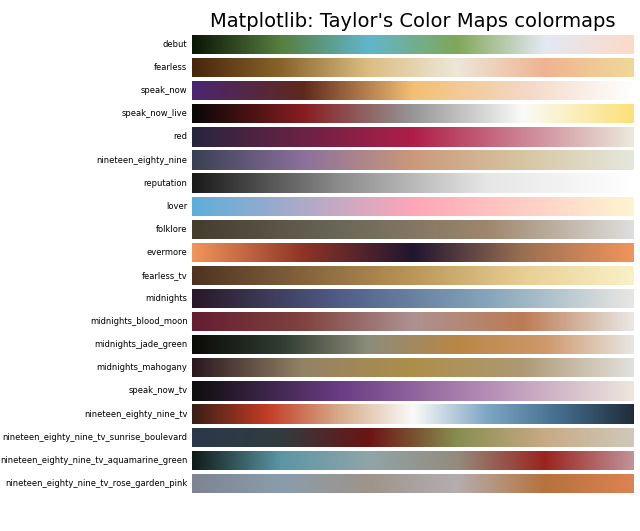
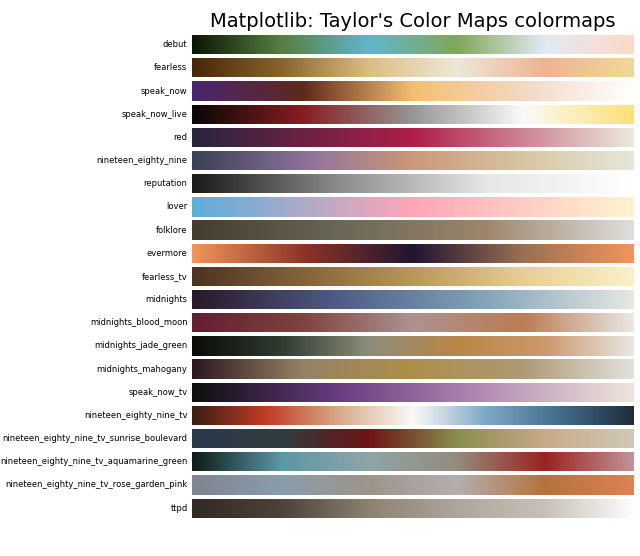
Added TTPD

diff --git a/swiftascmaps/__init__.py b/swiftascmaps/__init__.py
@@ -65,3 +65,5 @@ nineteen_eighty_nine_tv, nineteen_eighty_nine_tv_r = make_custom_cmap(
 nineteen_eighty_nine_tv_sunrise_boulevard, nineteen_eighty_nine_tv_sunrise_boulevard_r = make_custom_cmap("nineteen_eighty_nine_tv_sunrise_boulevard", colors.nineteen_eighty_nine_tv_sunrise_boulevard)
 nineteen_eighty_nine_tv_aquamarine_green, nineteen_eighty_nine_tv_aquamarine_green_r = make_custom_cmap("nineteen_eighty_nine_tv_aquamarine_green", colors.nineteen_eighty_nine_tv_aquamarine_green)
 nineteen_eighty_nine_tv_rose_garden_pink, nineteen_eighty_nine_tv_rose_garden_pink_r = make_custom_cmap("nineteen_eighty_nine_tv_rose_garden_pink", colors.nineteen_eighty_nine_tv_rose_garden_pink)
+
+ttpd, ttpd_r = make_custom_cmap("ttpd", colors.ttpd)

diff --git a/test_maps.py b/test_maps.py
@@ -55,7 +55,8 @@ plot_color_gradients("Matplotlib: Taylor's Color Maps",
     "swift.nineteen_eighty_nine_tv",
     "swift.nineteen_eighty_nine_tv_sunrise_boulevard",
     "swift.nineteen_eighty_nine_tv_aquamarine_green",
-    "swift.nineteen_eighty_nine_tv_rose_garden_pink"
+    "swift.nineteen_eighty_nine_tv_rose_garden_pink",
+    "swift.ttpd"
 ]
 )
 

diff --git a/swiftascmaps/colors.py b/swiftascmaps/colors.py
@@ -149,3 +149,4 @@ nineteen_eighty_nine_tv_rose_garden_pink = hex_to_rgb(sorted(
     ["#8A9DAC", "#9E948A","#DD8253", "#B4AEAF", "#B6723C", "#7F8491"]
 ))
 
+ttpd = hex_to_rgb(sorted(["#8D8171", "#C6C0B8", "#49433B", "#FDFDFD", "#322B25","#ADA69C"]))

diff --git a/README.md b/README.md
@@ -27,6 +27,7 @@ Includes color maps based on the following albums:
 + 1989: Taylor's Version - Sunrise Boulevard Variant (`nineteen_eighty_nine_tv_sunrise_boulevard`, `nineteen_eighty_nine_tv_sunrise_boulevard_r`) (copied from [taloRswift](https://github.com/asteves/tayloRswift))
 + 1989: Taylor's Version - Aquamarine Green Variant (`nineteen_eighty_nine_tv_aquamarine_green`, `nineteen_eighty_nine_tv_aquamarine_green_r`) (copied from [taloRswift](https://github.com/asteves/tayloRswift))
 + 1989: Taylor's Version - Rose Garden Pink Variant (`nineteen_eighty_nine_tv_rose_garden_pink`, `nineteen_eighty_nine_tv_rose_garden_pink_r`) (copied from [taloRswift](https://github.com/asteves/tayloRswift))
++ The Tortured Poets Department (`ttpd`, `ttpd_r`) (copied from [taloRswift](https://github.com/asteves/tayloRswift))
 
 License: LGPLv3
 Author: Josh Borrow (josh@joshborrow.com)
